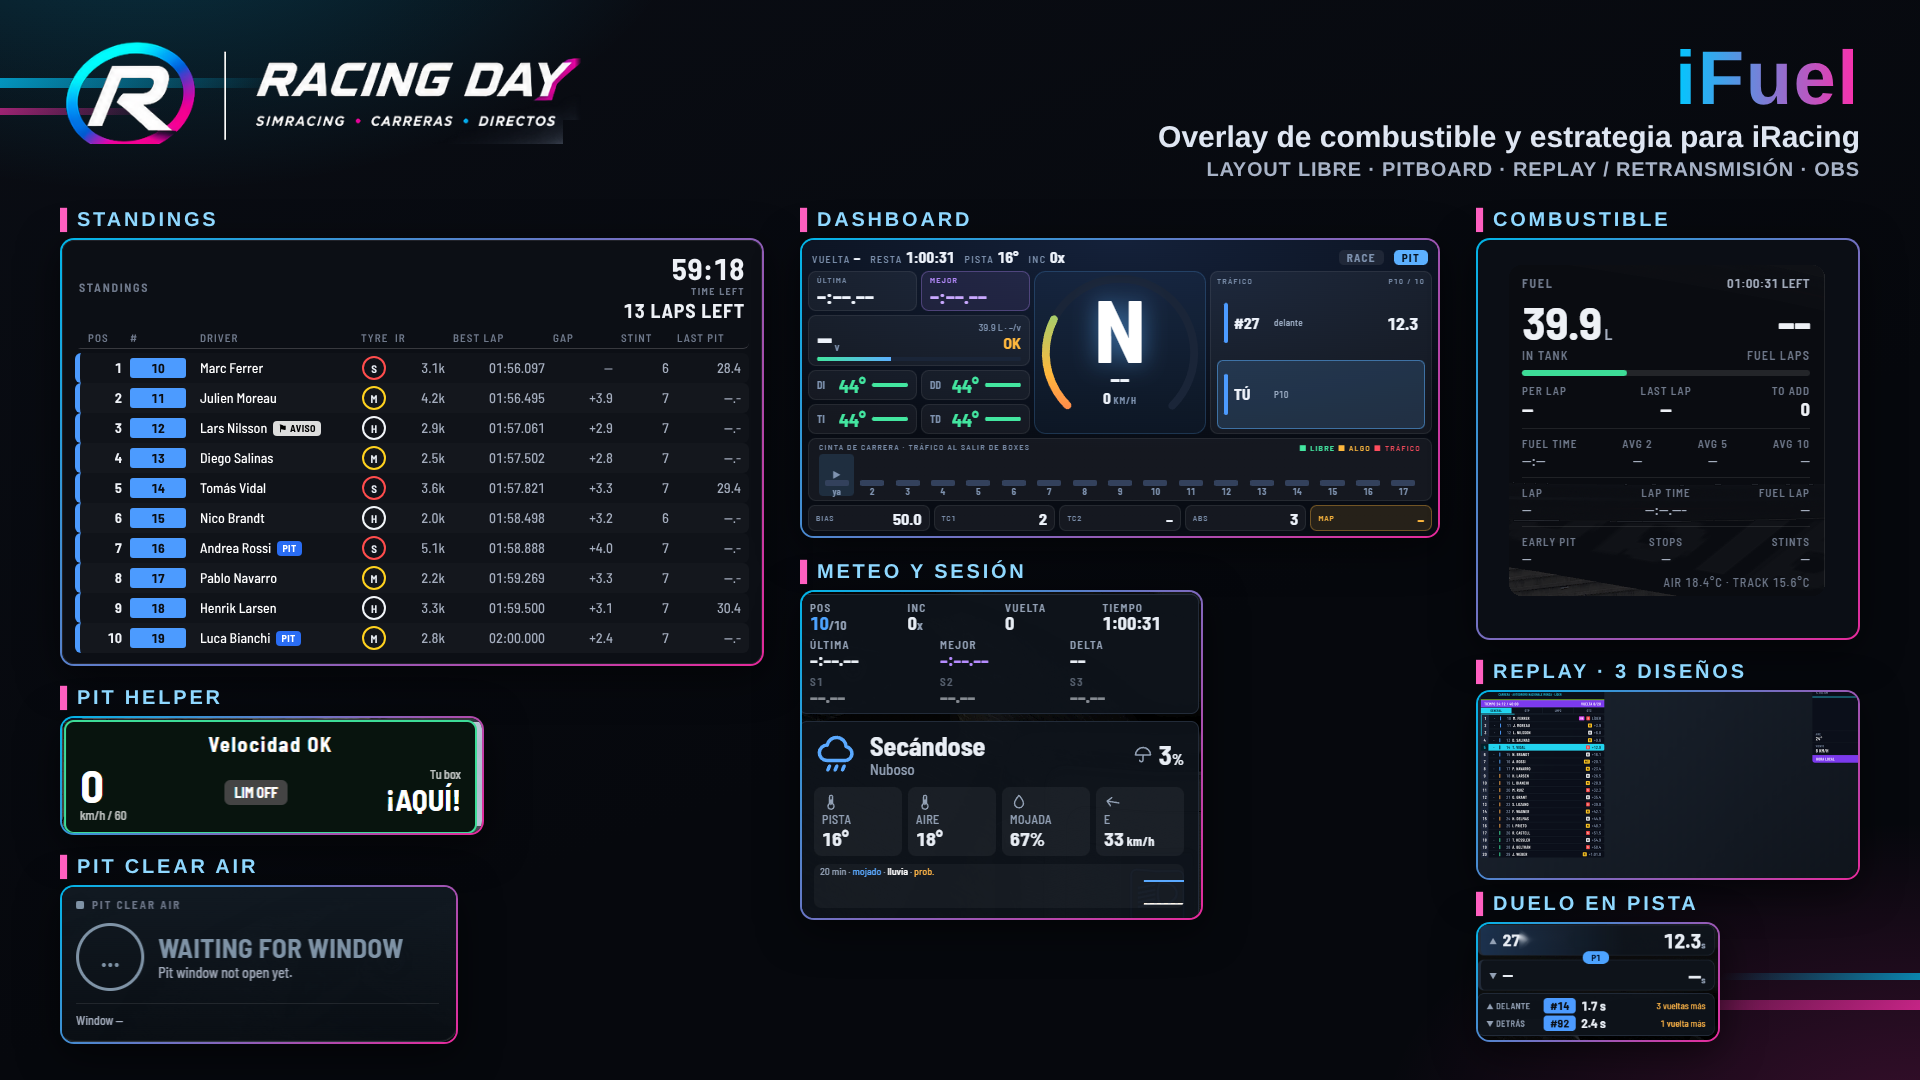
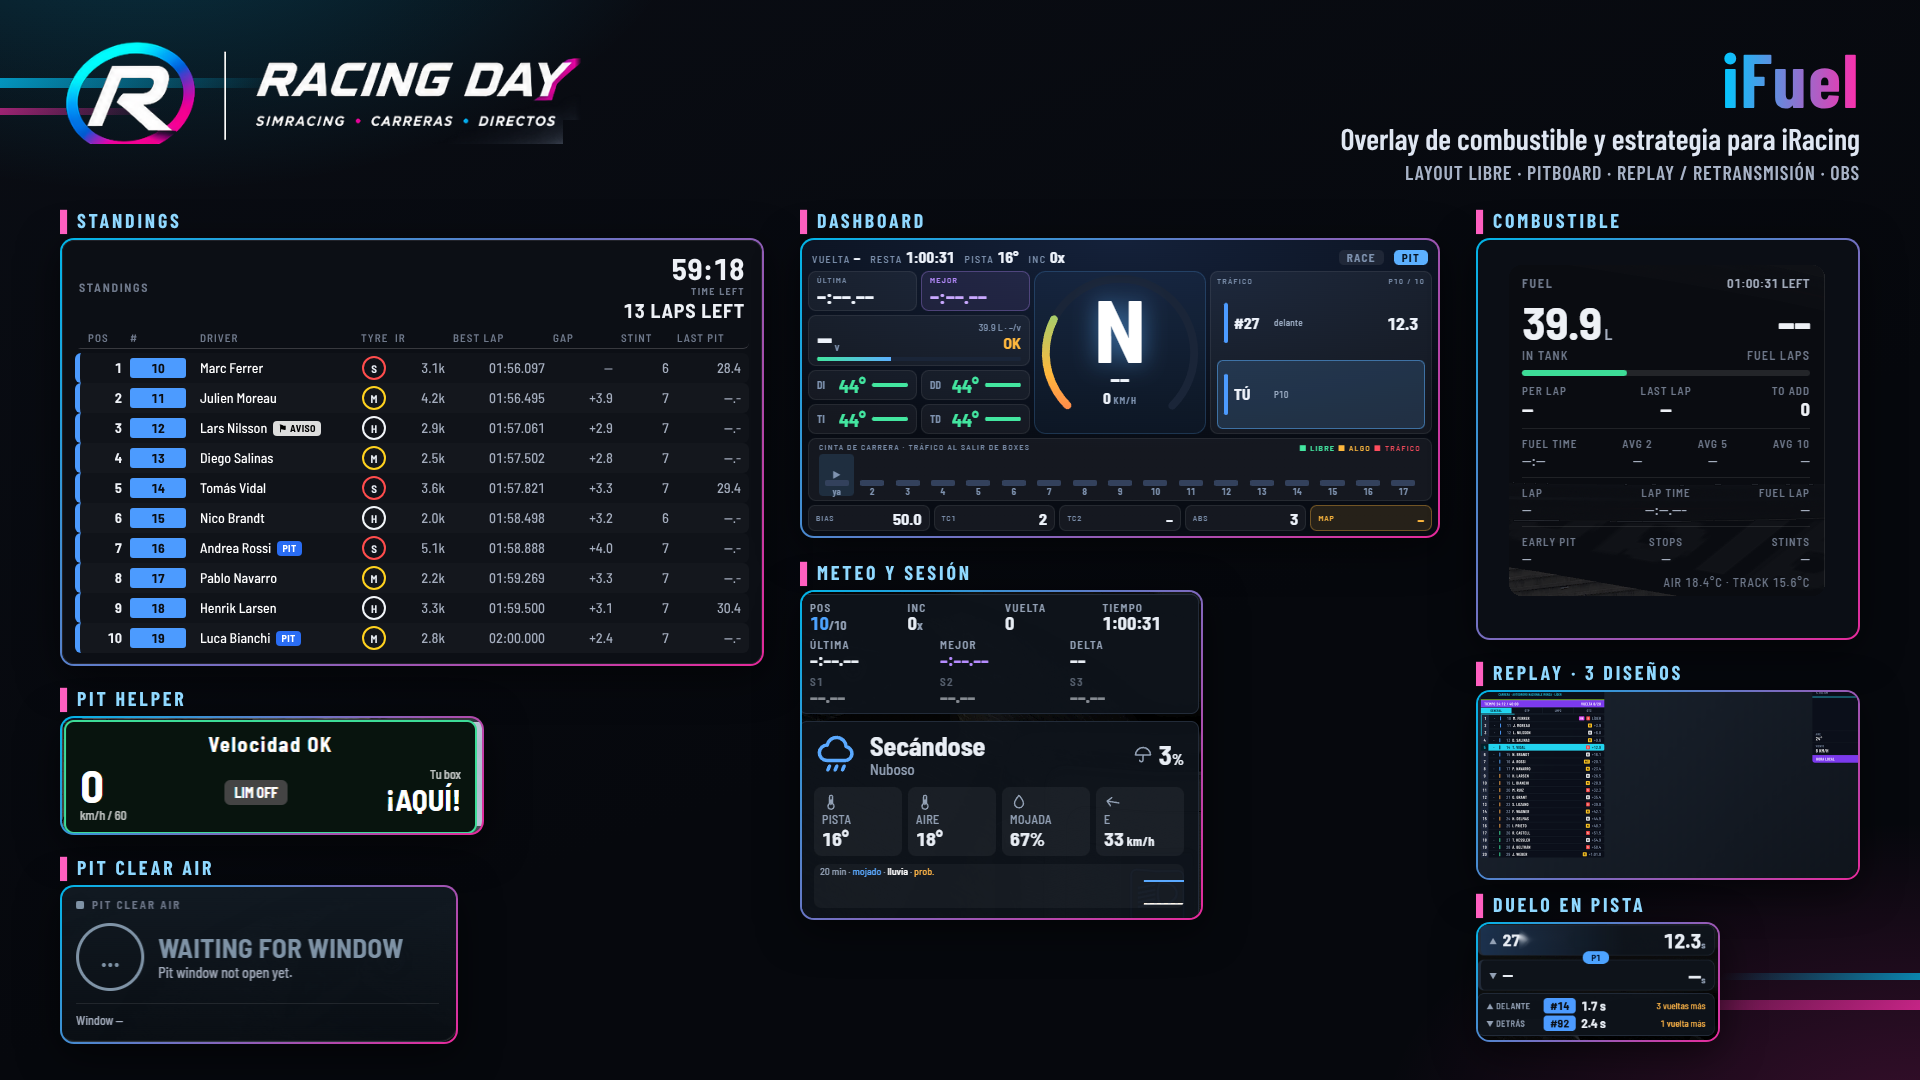
Nombres N. Apellido en standings y widgets; imagen de diseños de replay
Claude-Session: https://claude.ai/code/session_01CquCnxRdvq2GyzJ7omKTma

diff --git a/src/components/ReplayBroadcast.tsx b/src/components/ReplayBroadcast.tsx
@@ -1,5 +1,6 @@
 // src/components/ReplayBroadcast.tsx
 // Layout de replay estilo retransmisión: torre de tiempos, circuito y datos del coche en pantalla.
+import { shortDriverName } from "../utils/driverName";
 import React, { useEffect, useMemo, useRef, useState } from "react";
 import type { CSSProperties } from "react";
 import type { StandingsRow } from "../types/standings";
@@ -39,11 +40,6 @@ function carLabel(path: string): string {
   return path.replace(/[_-]+/g, " ").trim();
 }
 
-function shortName(full: string): string {
-  const p = (full || "").trim().split(/\s+/);
-  if (p.length <= 1) return p[0] ?? "";
-  return `${p[0].charAt(0).toUpperCase()}. ${p[p.length - 1]}`;
-}
 
 /* ---------- Torre (modelo común a los tres diseños) ---------- */
 type TowerProps = {
@@ -216,7 +212,7 @@ const TowerColumn: React.FC<TowerProps> = (p) => {
       <Change r={r} baseline={m.baseline} />
       <span className="bc-row__cls" />
       {!pylon && <span className="bc-row__num">{r.carNumber}</span>}
-      <span className="bc-row__name">{pylon ? shortCode(r.driverName) : shortName(r.driverName)}</span>
+      <span className="bc-row__name">{pylon ? shortCode(r.driverName) : shortDriverName(r.driverName)}</span>
       {!pylon && <Badges r={r} vr={m.vr} />}
       {pylon && r.inPit && <span className="bc-tag bc-tag--pit">PIT</span>}
       <span className="bc-row__gap">{m.gapOf(r)}</span>

diff --git a/src/components/BattleCards.tsx b/src/components/BattleCards.tsx
@@ -1,3 +1,4 @@
+import { shortDriverName } from "../utils/driverName";
 import React from "react";
 import type { RelativeCar, OnTrackCar } from "../types/relative";
 import { ClassBadge } from "./ClassBadge";
@@ -12,11 +13,6 @@ type Props = {
 };
 
 const gap = (g: number | null | undefined) => (g == null || !Number.isFinite(g) ? "--" : Math.abs(g) < 100 ? Math.abs(g).toFixed(1) : String(Math.round(Math.abs(g))));
-const short = (n?: string | null) => {
-  if (!n) return "";
-  const p = n.trim().split(/\s+/);
-  return p.length < 2 ? n : `${p[0][0]}. ${p.slice(1).join(" ")}`;
-};
 
 const Card: React.FC<{ side: "ahead" | "behind"; car: RelativeCar; cls?: Record<number, number> }> = ({ side, car, cls }) => {
   const d = car?.deltaLastToMe ?? null;
@@ -29,7 +25,7 @@ const Card: React.FC<{ side: "ahead" | "behind"; car: RelativeCar; cls?: Record<
       <span className="bc__side">{side === "ahead" ? "▲" : "▼"}</span>
       <b className="bc__num">{car?.carNum ?? "--"}</b>
       <ClassBadge small classId={car?.classId ?? null} classPosition={car?.classPosition ?? null} classColorIndexById={cls} />
-      <span className="bc__name">{short(car?.driverName)}</span>
+      <span className="bc__name">{shortDriverName(car?.driverName)}</span>
       <b className="bc__gap">{gap(car?.gapSeconds)}<small>s</small></b>
     </div>
   );

diff --git a/src/components/RaceStandingsWidget.tsx b/src/components/RaceStandingsWidget.tsx
@@ -1,3 +1,4 @@
+import { shortDriverName } from "../utils/driverName";
 import React from "react";
 // components/RaceStandingsWidget.tsx
 import clsx from "clsx";
@@ -165,7 +166,7 @@ export function RaceStandingsWidget({
                     </span>
                     <span className="race-standings__cell race-standings__cell--driver">
                       {isMe && <span className="race-standings__me-mark" aria-hidden="true">▶</span>}
-                      <span className="race-standings__name">{row.driverName}</span>
+                      <span className="race-standings__name">{shortDriverName(row.driverName)}</span>
                       {row.inPit && <span className="race-standings__tag race-standings__tag--pit" title="En boxes">PIT</span>}
                       {row.penalty && (
                         <span className={clsx("race-standings__tag", `race-standings__tag--${PENALTY[row.penalty].cls}`)} title={PENALTY[row.penalty].title}>

diff --git a/src/components/StandingBattleWidget.tsx b/src/components/StandingBattleWidget.tsx
@@ -1,3 +1,4 @@
+import { shortDriverName } from "../utils/driverName";
 import React, { useMemo } from "react";
 import type { RelativeCar, OnTrackCar } from "../types/relative";
 import {
@@ -9,13 +10,6 @@ import { ClassBadge } from "./ClassBadge";
 import { ClassLegend } from "./ClassLegend";
 
 // "Nombre Apellido Segundo" -> "N. Apellido Segundo" (cabe mejor en el overlay)
-function shortDriverName(name?: string | null): string {
-  if (!name) return "";
-  const parts = name.trim().split(/\s+/);
-  if (parts.length < 2) return name;
-  return `${parts[0][0]}. ${parts.slice(1).join(" ")}`;
-}
-
 type RelativeWidgetProps = {
   ahead: RelativeCar;
   behind: RelativeCar;

diff --git a/src/utils/driverName.ts b/src/utils/driverName.ts
@@ -1,0 +1,10 @@
+// src/utils/driverName.ts
+// Nombre corto del piloto en formato "N. Apellido". iRacing añade un número a los nombres repetidos
+// ("Cristiano Queiroz3"); se quita para mostrar. Con un solo término se devuelve tal cual.
+export function shortDriverName(name?: string | null): string {
+  if (!name) return "";
+  const parts = name.trim().split(/\s+/);
+  if (parts.length < 2) return parts[0] ?? "";
+  const surname = parts.slice(1).join(" ").replace(/(?<=\p{L})\d+$/u, "");
+  return `${parts[0].charAt(0).toUpperCase()}. ${surname}`;
+}

diff --git a/docs/ROADMAP.md b/docs/ROADMAP.md
@@ -366,3 +366,7 @@ Todo el roadmap entra antes de la release y no se añade nada nuevo hasta termin
 ## Beta.67 - layouts y monitores
 - Hecho: aviso en la ventana principal en modo replay; persistPosition (no se guarda la posicion recortada al cargar); standings con ancho fijo; geometria de ventana por layout (window-bounds.json por layout, monitor por defecto distinto del overlay); capturas reales recortadas (docs/screenshots/real-*) y demo (docs/demo-payload.json).
 - Pendiente README: redactarlo con las capturas de docs/screenshots.
+
+## Hacia beta.68 (sin empaquetar)
+- Nombres de piloto en formato "N. Apellido" en standings, relative, battle y replay (utils/driverName.ts; quita el sufijo numérico de iRacing).
+- Docs: hero.png (mosaico Racing Day) y replay-designs.png en docs/screenshots.
